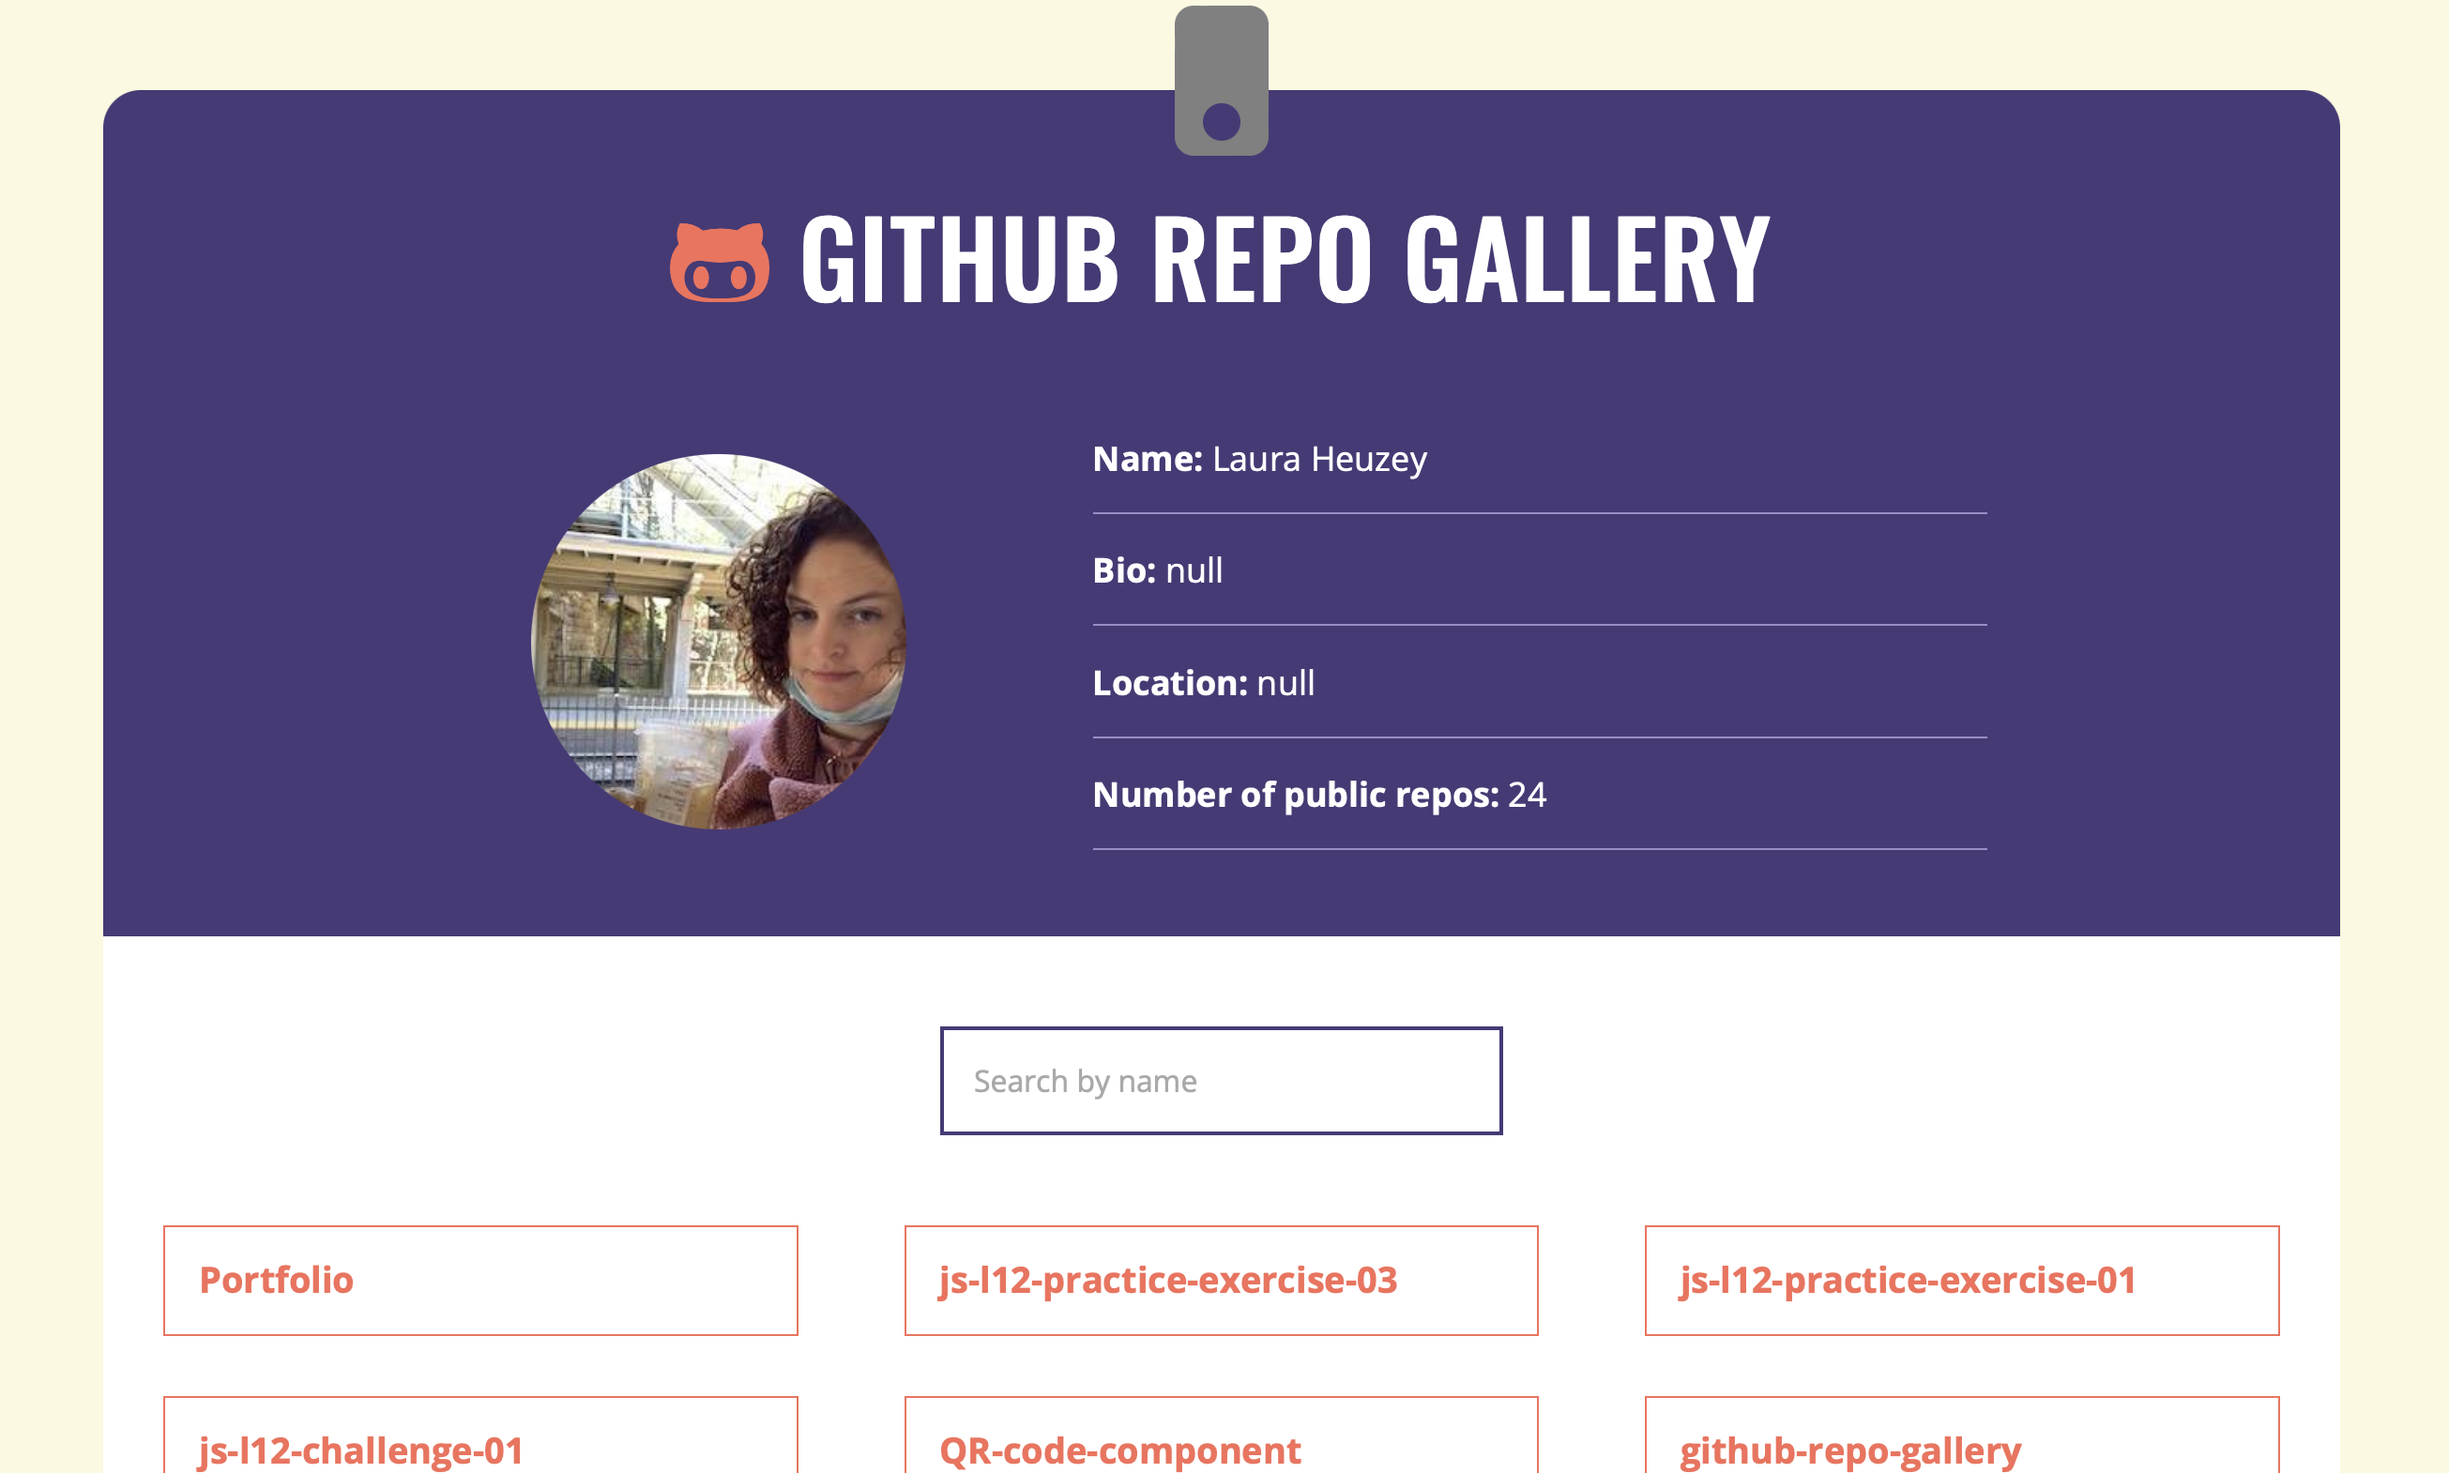
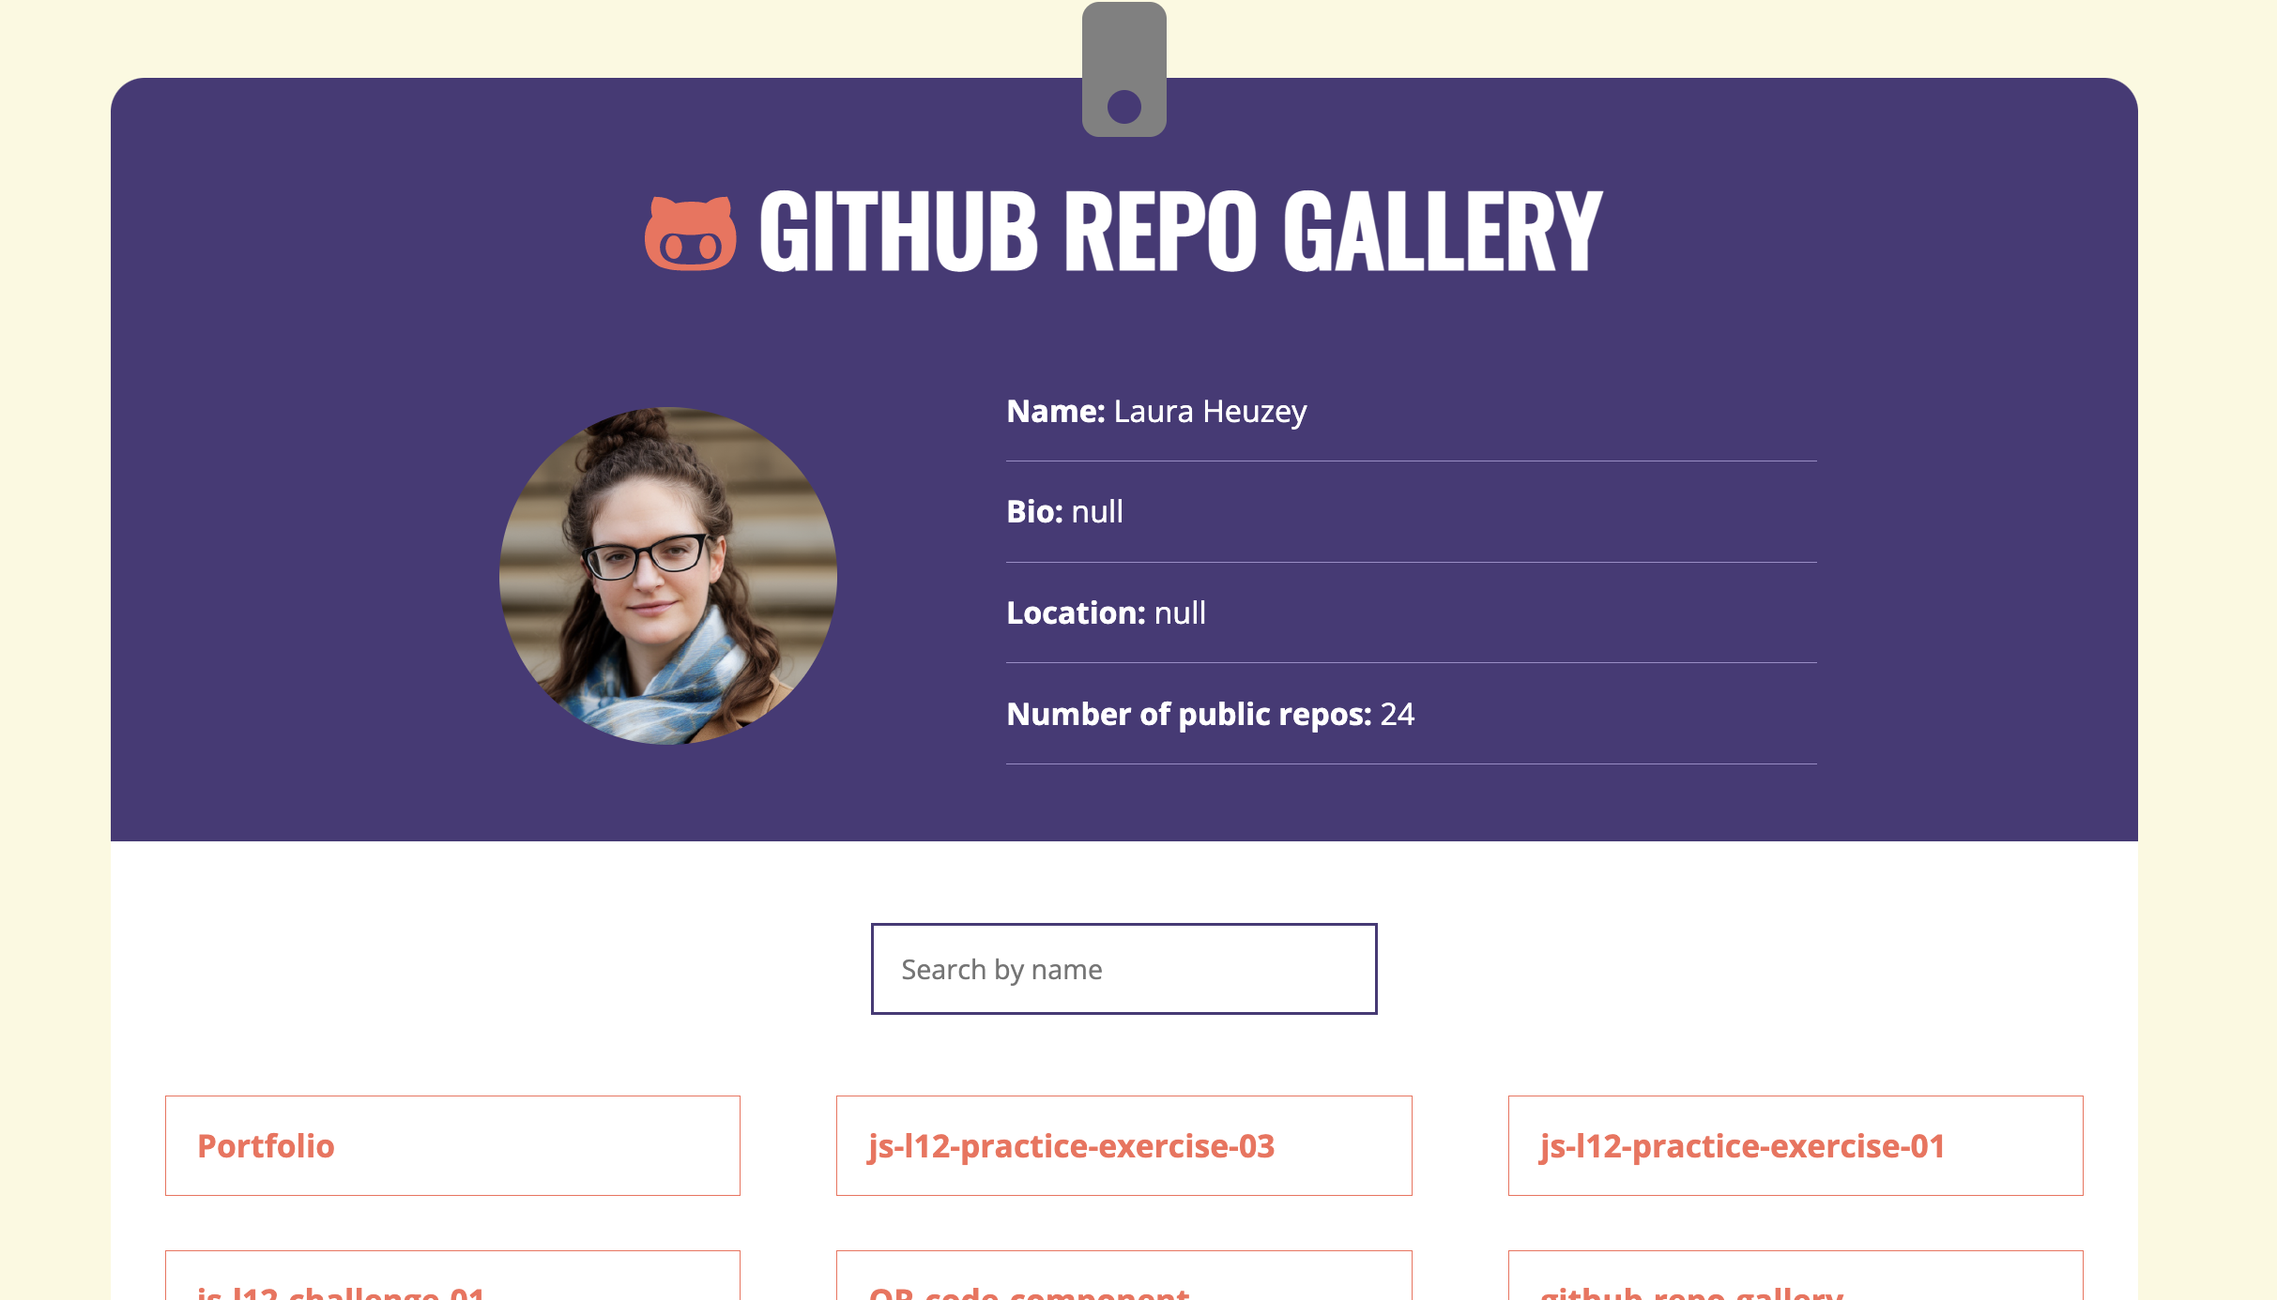
Updated bios in github gallery repo

diff --git a/index.html b/index.html
@@ -31,7 +31,6 @@
 </head>
 
 <body>
-<!-- Add your site or application content here -->
   <header>
   <div class="content-wrapper">
     <nav>
@@ -73,7 +72,7 @@
               <p class="project-description">An interactive app that lets users create "sticky notes" on their computer to keep track of to-do items.</p>
               <p><span>Skills: </span> ES6, JSX, Managing Data Flow, Manipulate the DOM</p>
               <p><span>Tools: </span>CodeSandbox, GitHub</p>
-              <a class="project-link" href="" target="">live page</a>
+              <a class="project-link" href="https://6fqrrp.csb.app/" target="_blank">live page</a>
             </div>
             <div class="portfolio-piece">
               <figure>
@@ -85,11 +84,11 @@
               <p class="project-description">A single-page responsive site coded to look good on any device.</p>
               <p><span>Skills: </span> CSS3, HTML5, Flexbox, Media Queries, Responsive Typography</p>
               <p><span>Tools: </span>Text Editors, GitHub, DevTools</p>
-              <a class="project-link" href="" target="">live page</a>
+              <a class="project-link" href="https://laura-h89.github.io/206-rogue_pickings/" target="_blank">live page</a>
             </div>
             <div class="portfolio-piece">
               <figure>
-                <a href="https://github.com/Laura-H89/guess-the-word" target="_blank">
+                <a href="https://laura-h89.github.io/guess-the-word/" target="_blank">
                   <img src="img/guess-the-word.png" alt="Guess the Word Game">
                 </a>
               </figure>
@@ -97,7 +96,7 @@
               <p class="project-description">Players guess the word by entering one letter at a time. Words are selected from a list of over 800 words pulled from a JSON file.</p>
               <p><span>Skills: </span> Manipulate the DOM, JavaScript</p>
               <p><span>Tools: </span>GitHub, JSON</p>
-              <a class="project-link" href="" target="">live page</a>
+              <a class="project-link" href="https://laura-h89.github.io/guess-the-word/" target="_blank">live page</a>
             </div>
             <div class="portfolio-piece">
               <figure>
@@ -109,7 +108,7 @@
               <p class="project-description">This project pulls data from a GitHub portfolio to create a gallery of repos. Visitors to the site can click on the repos to see more details.</p>
               <p><span>Skills: </span> APIs, Manipulate the DOM</p>
               <p><span>Tools: </span>GitHub</p>
-              <a class="project-link" href="" target="">live page</a>
+              <a class="project-link" href="https://laura-h89.github.io/github-repo-gallery/" target="_blank">live page</a>
             </div>
           </div>
         </div>
@@ -139,7 +138,7 @@
         <div class="content-wrapper">
           <div class="about-wrapper">
             <figure>
-              <img src="" alt id="profile-image">
+              <img src="img/headshot.png" alt id="profile-image">
             </figure>
           <div class="about-info">
             <h3>Hi! I'm Laura.</h3>
@@ -159,7 +158,8 @@
       <div class="contact-wrapper">
         <div class="contact-info">
           <h5 class="contact-title">Email or WhatsApp me</h5>
-          <p>lauraheuzey@yahoo.com</p>
+          <p>
+            <a href="mailto:lauraheuzey@yahoo.com">lauraheuzey@yahoo.com</a></p>
           <p>+1-631-357-2741</p>
         </div>
         <div class="contact-info social-links">

diff --git a/css/normalize.css b/css/normalize.css
@@ -100,6 +100,7 @@ a {
   font-size: 1.25rem;
   text-decoration: none;
   background-color: transparent;
+  color: #453E4F;
 }
 
 /***** HEADER *****/
@@ -344,6 +345,7 @@ footer .contact-info {
 .social-icons {
   display: flex;
   justify-content: space-around;
+  color: #453E4F;
 }
 
 .social-icons li {
@@ -481,7 +483,7 @@ footer .contact-info {
 }
 
 
-
+/********** DESKTOP STYLES **********/
 @media only screen and (min-width: 1200px) {
   header {
     padding-top: 80px;
